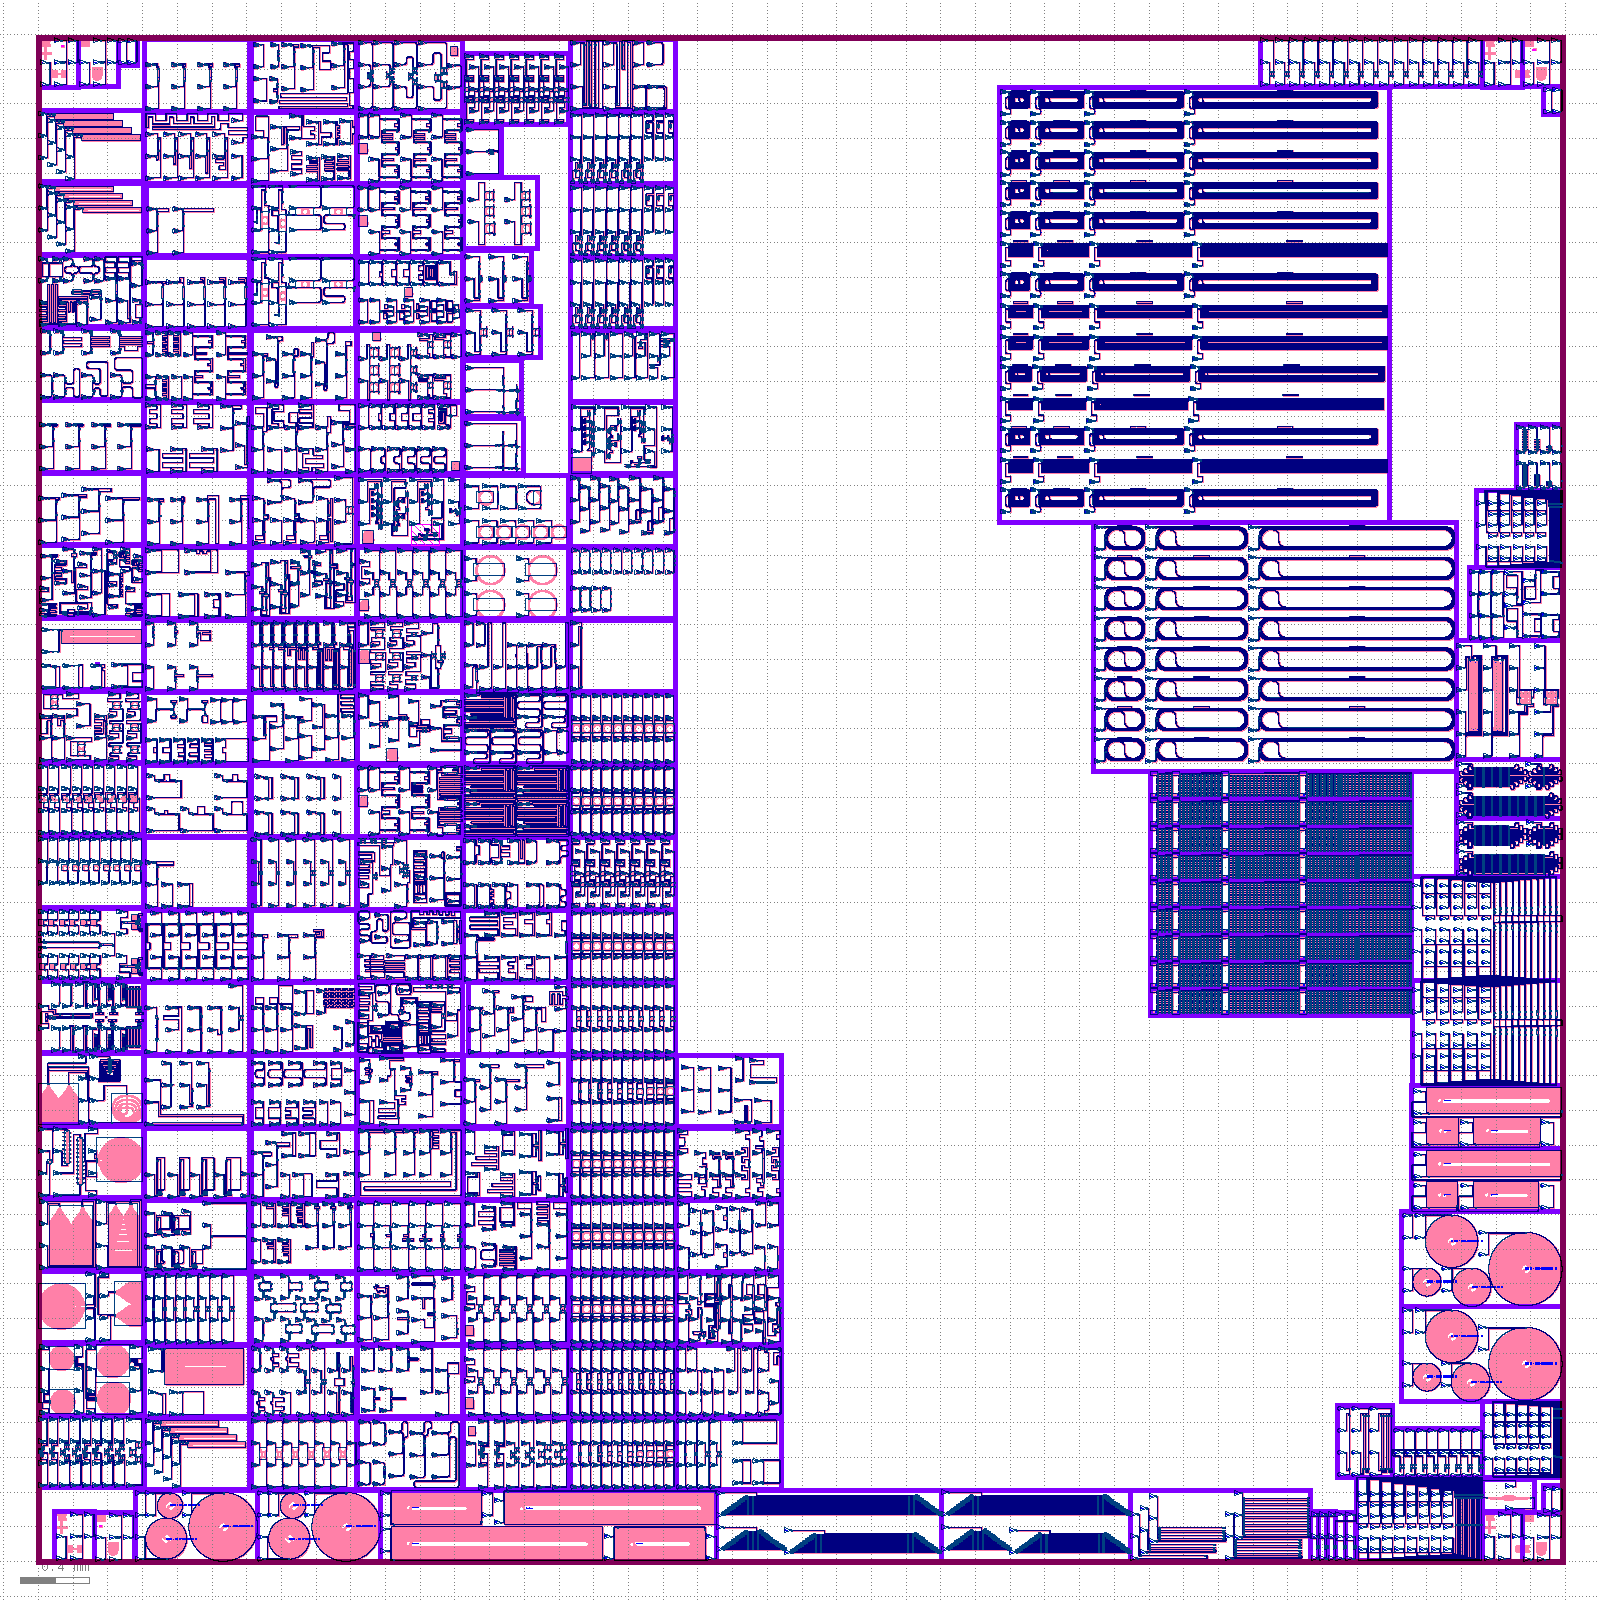
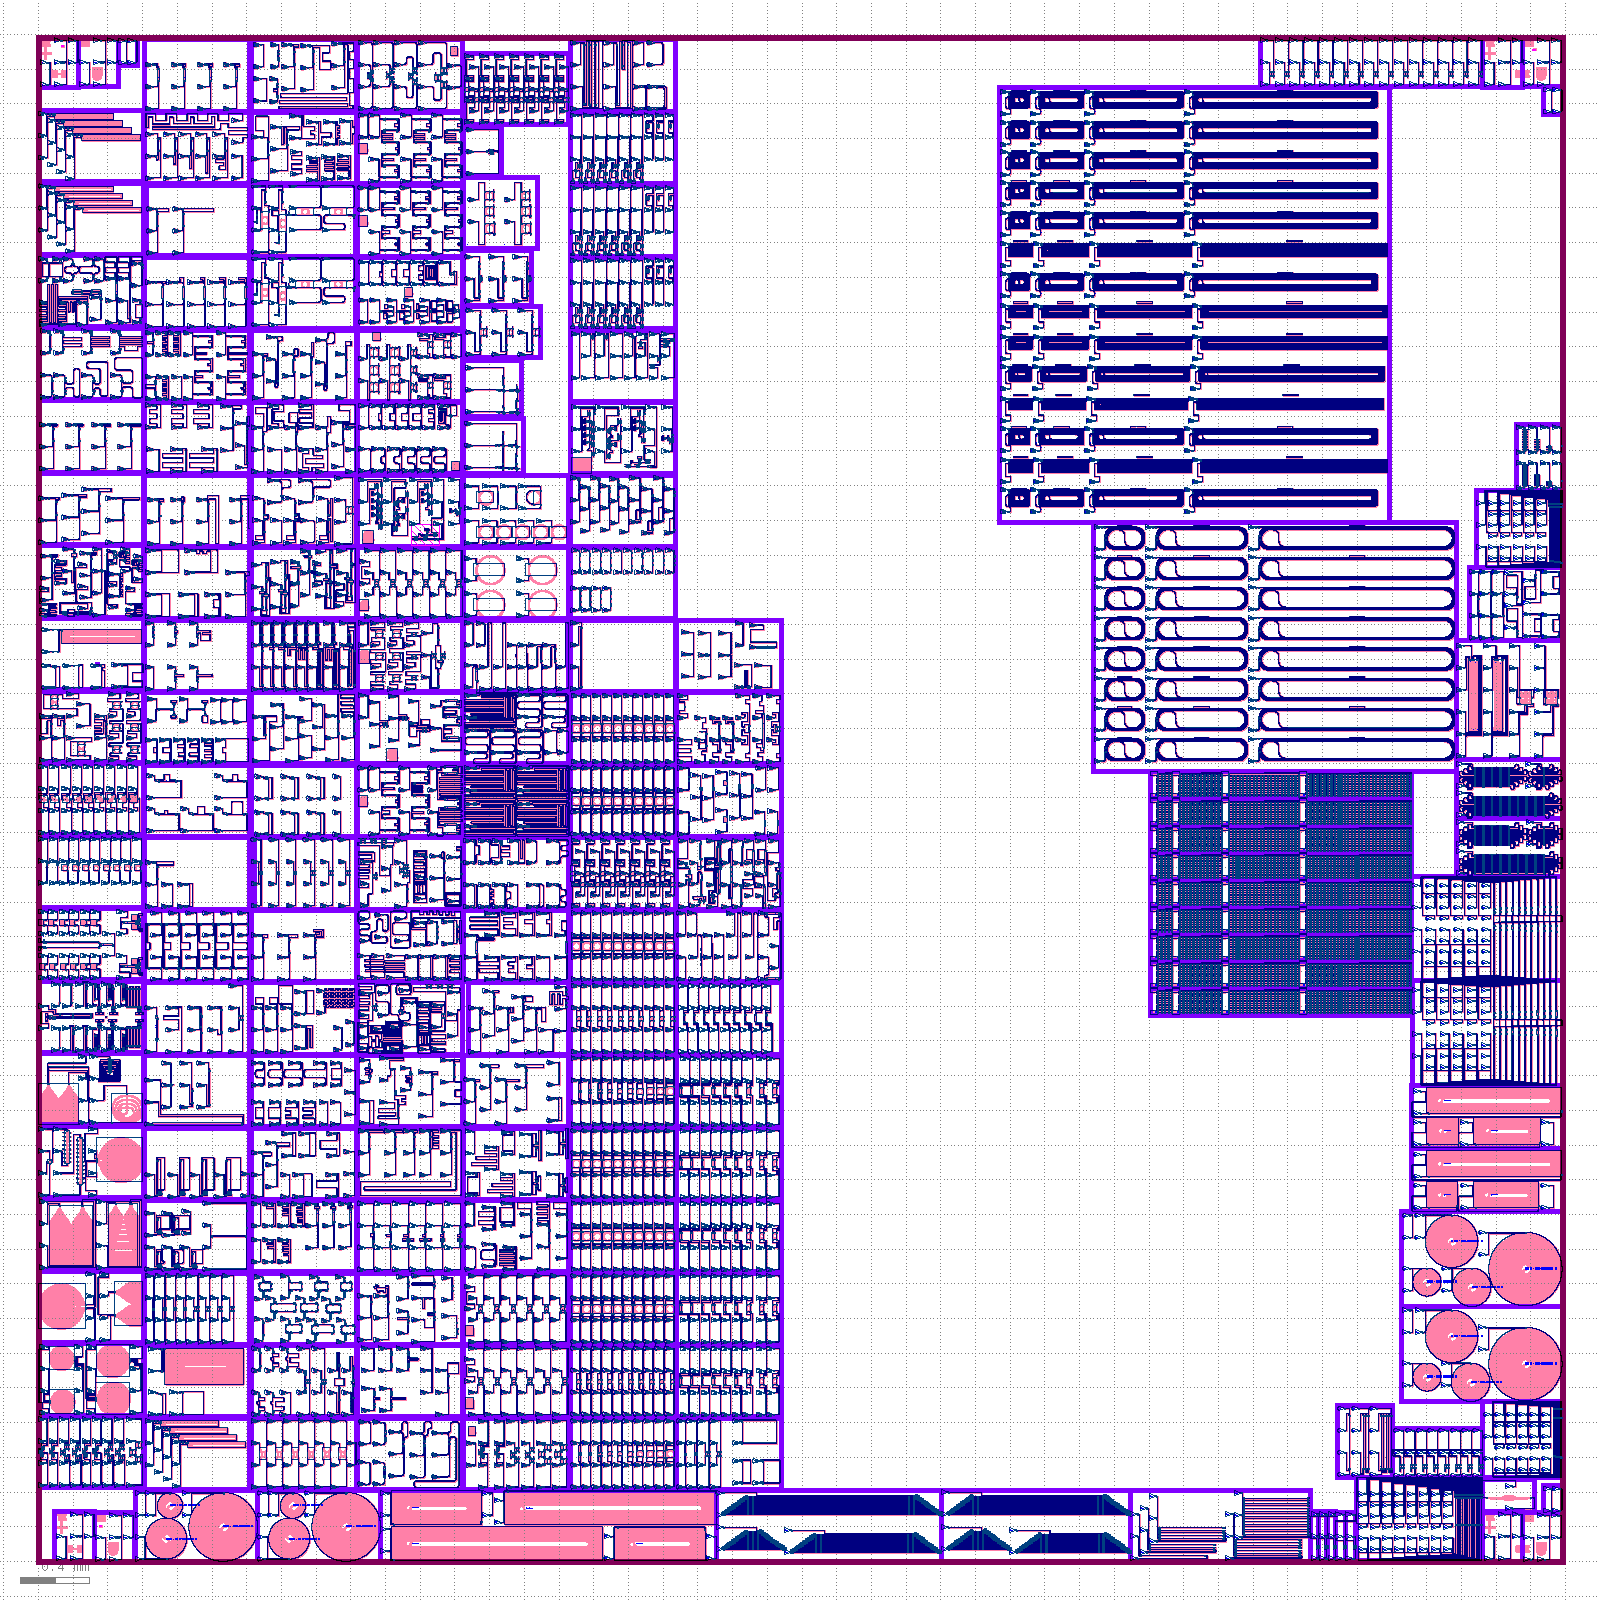
Aggregation layout: https://github.com/SiEPIC/openEBL-2026-05/actions/runs/25980247782/artifacts/7038965054

Changed region(s): [[0.4062, 0.375, 0.5, 0.9062]]

diff --git a/README.md b/README.md
@@ -91,5 +91,5 @@ Will be added here.
 
 Click on the following link to download the EBeam.oas merged layout file:
 <!-- start-link -->
-https://github.com/SiEPIC/openEBL-2026-05/actions/runs/25977731976/artifacts/7038169604
+https://github.com/SiEPIC/openEBL-2026-05/actions/runs/25980247782/artifacts/7038965054
 <!-- end-link -->